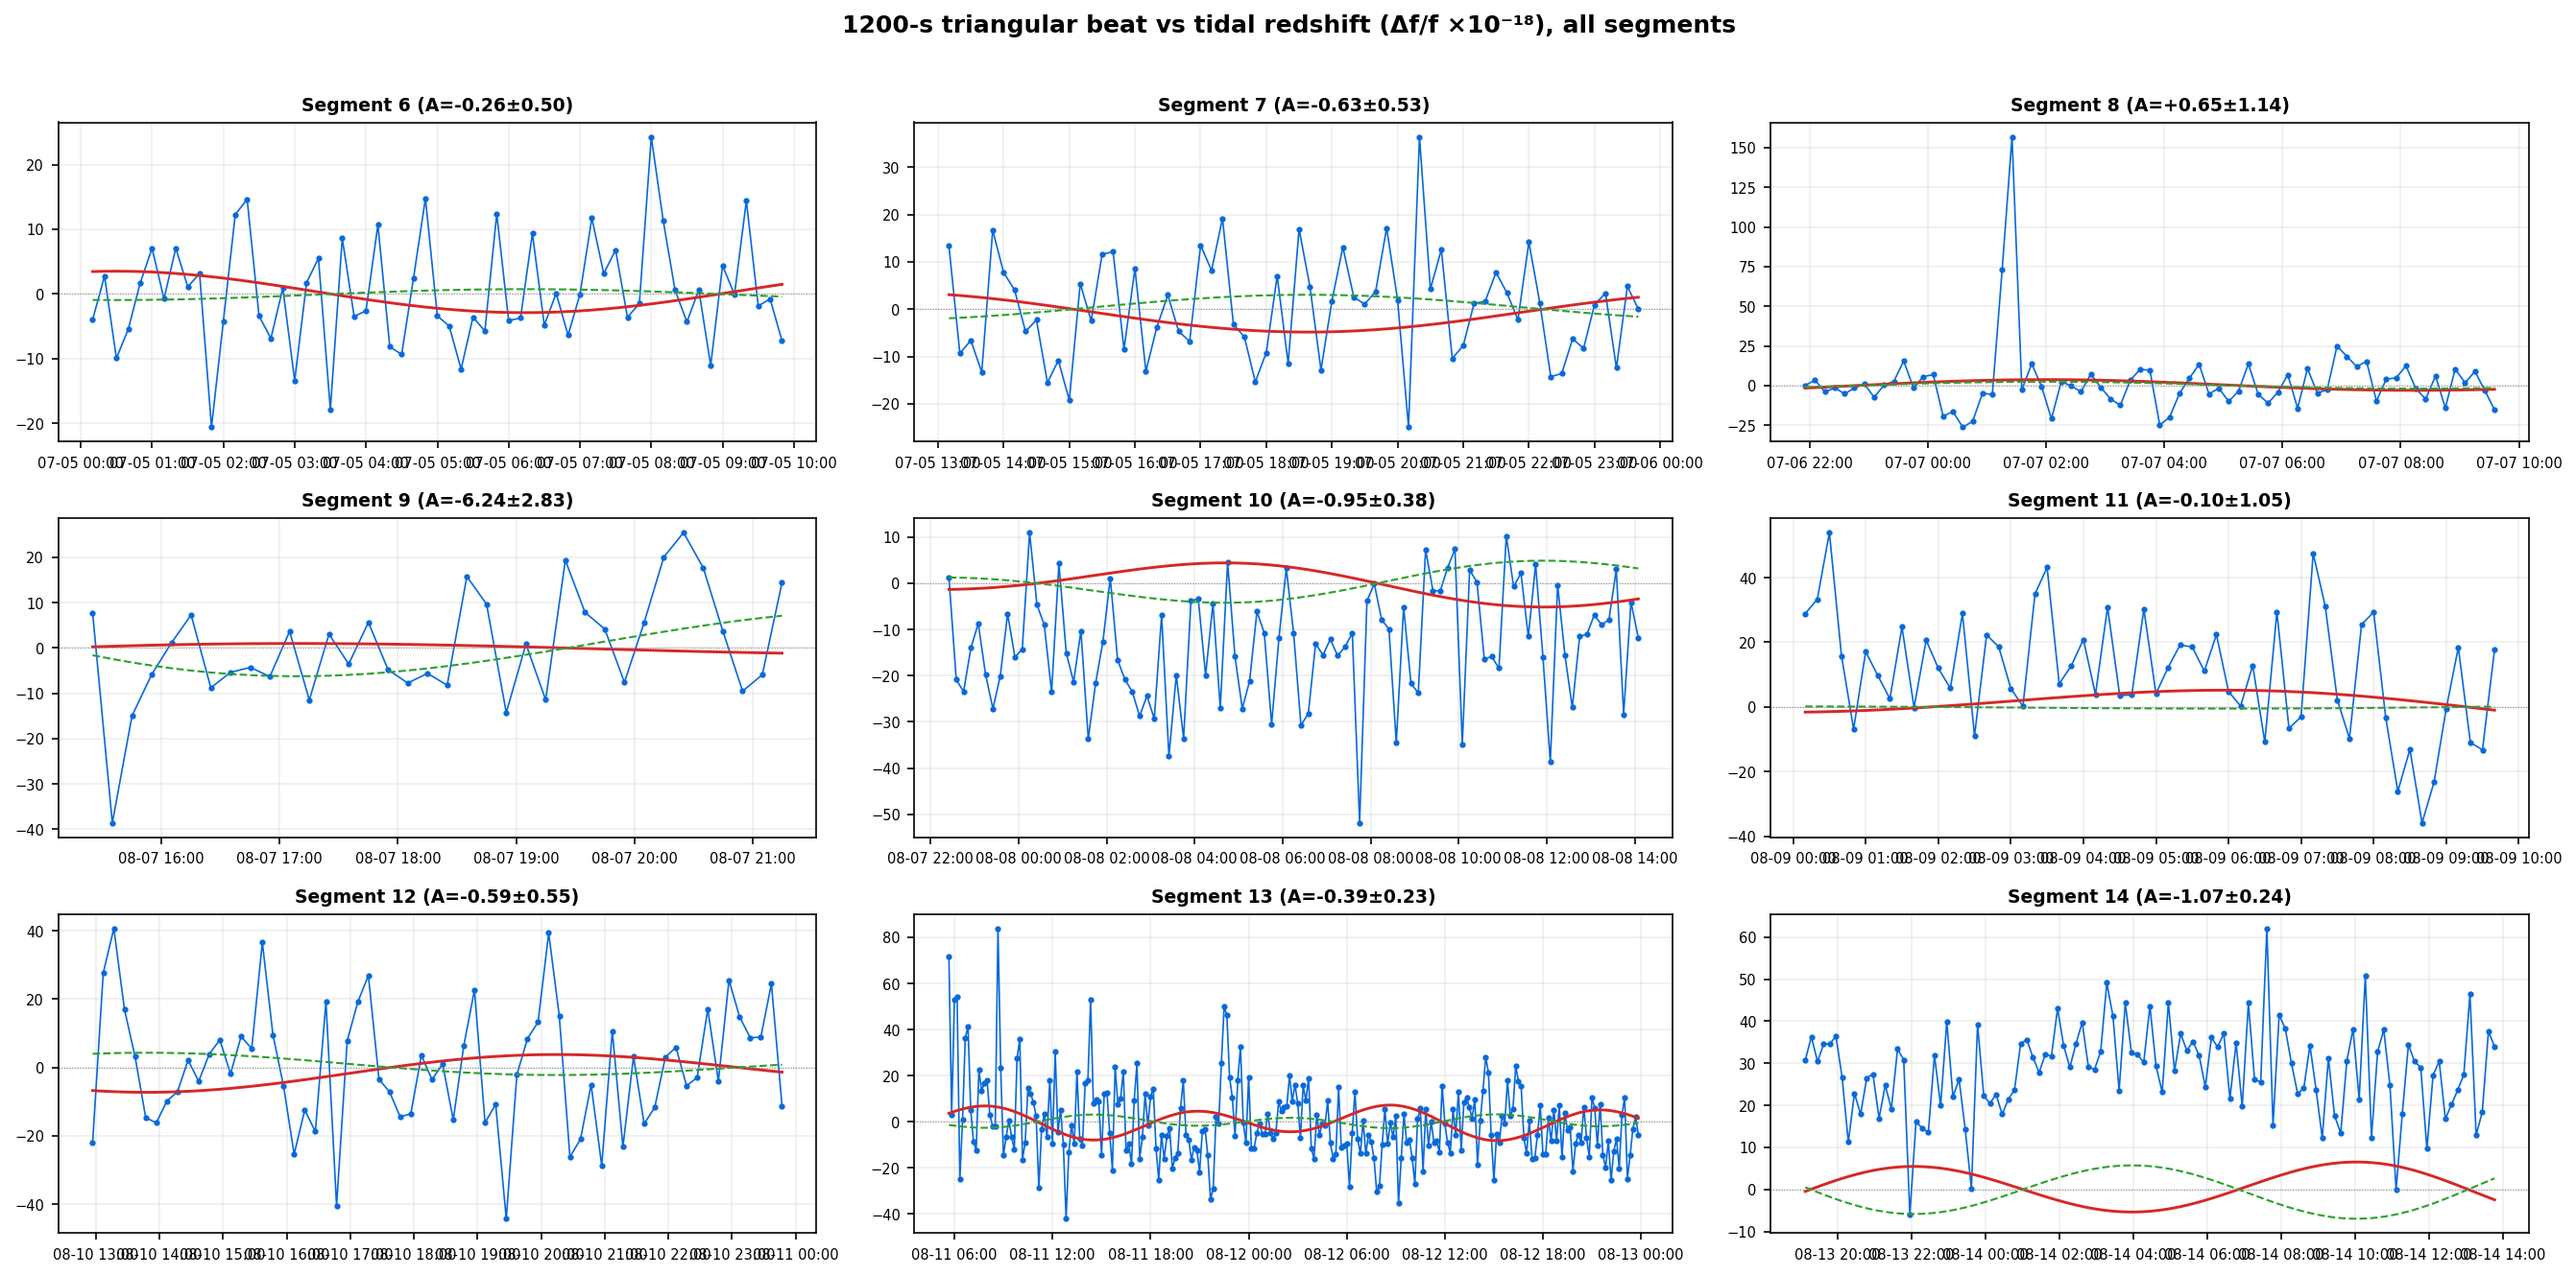
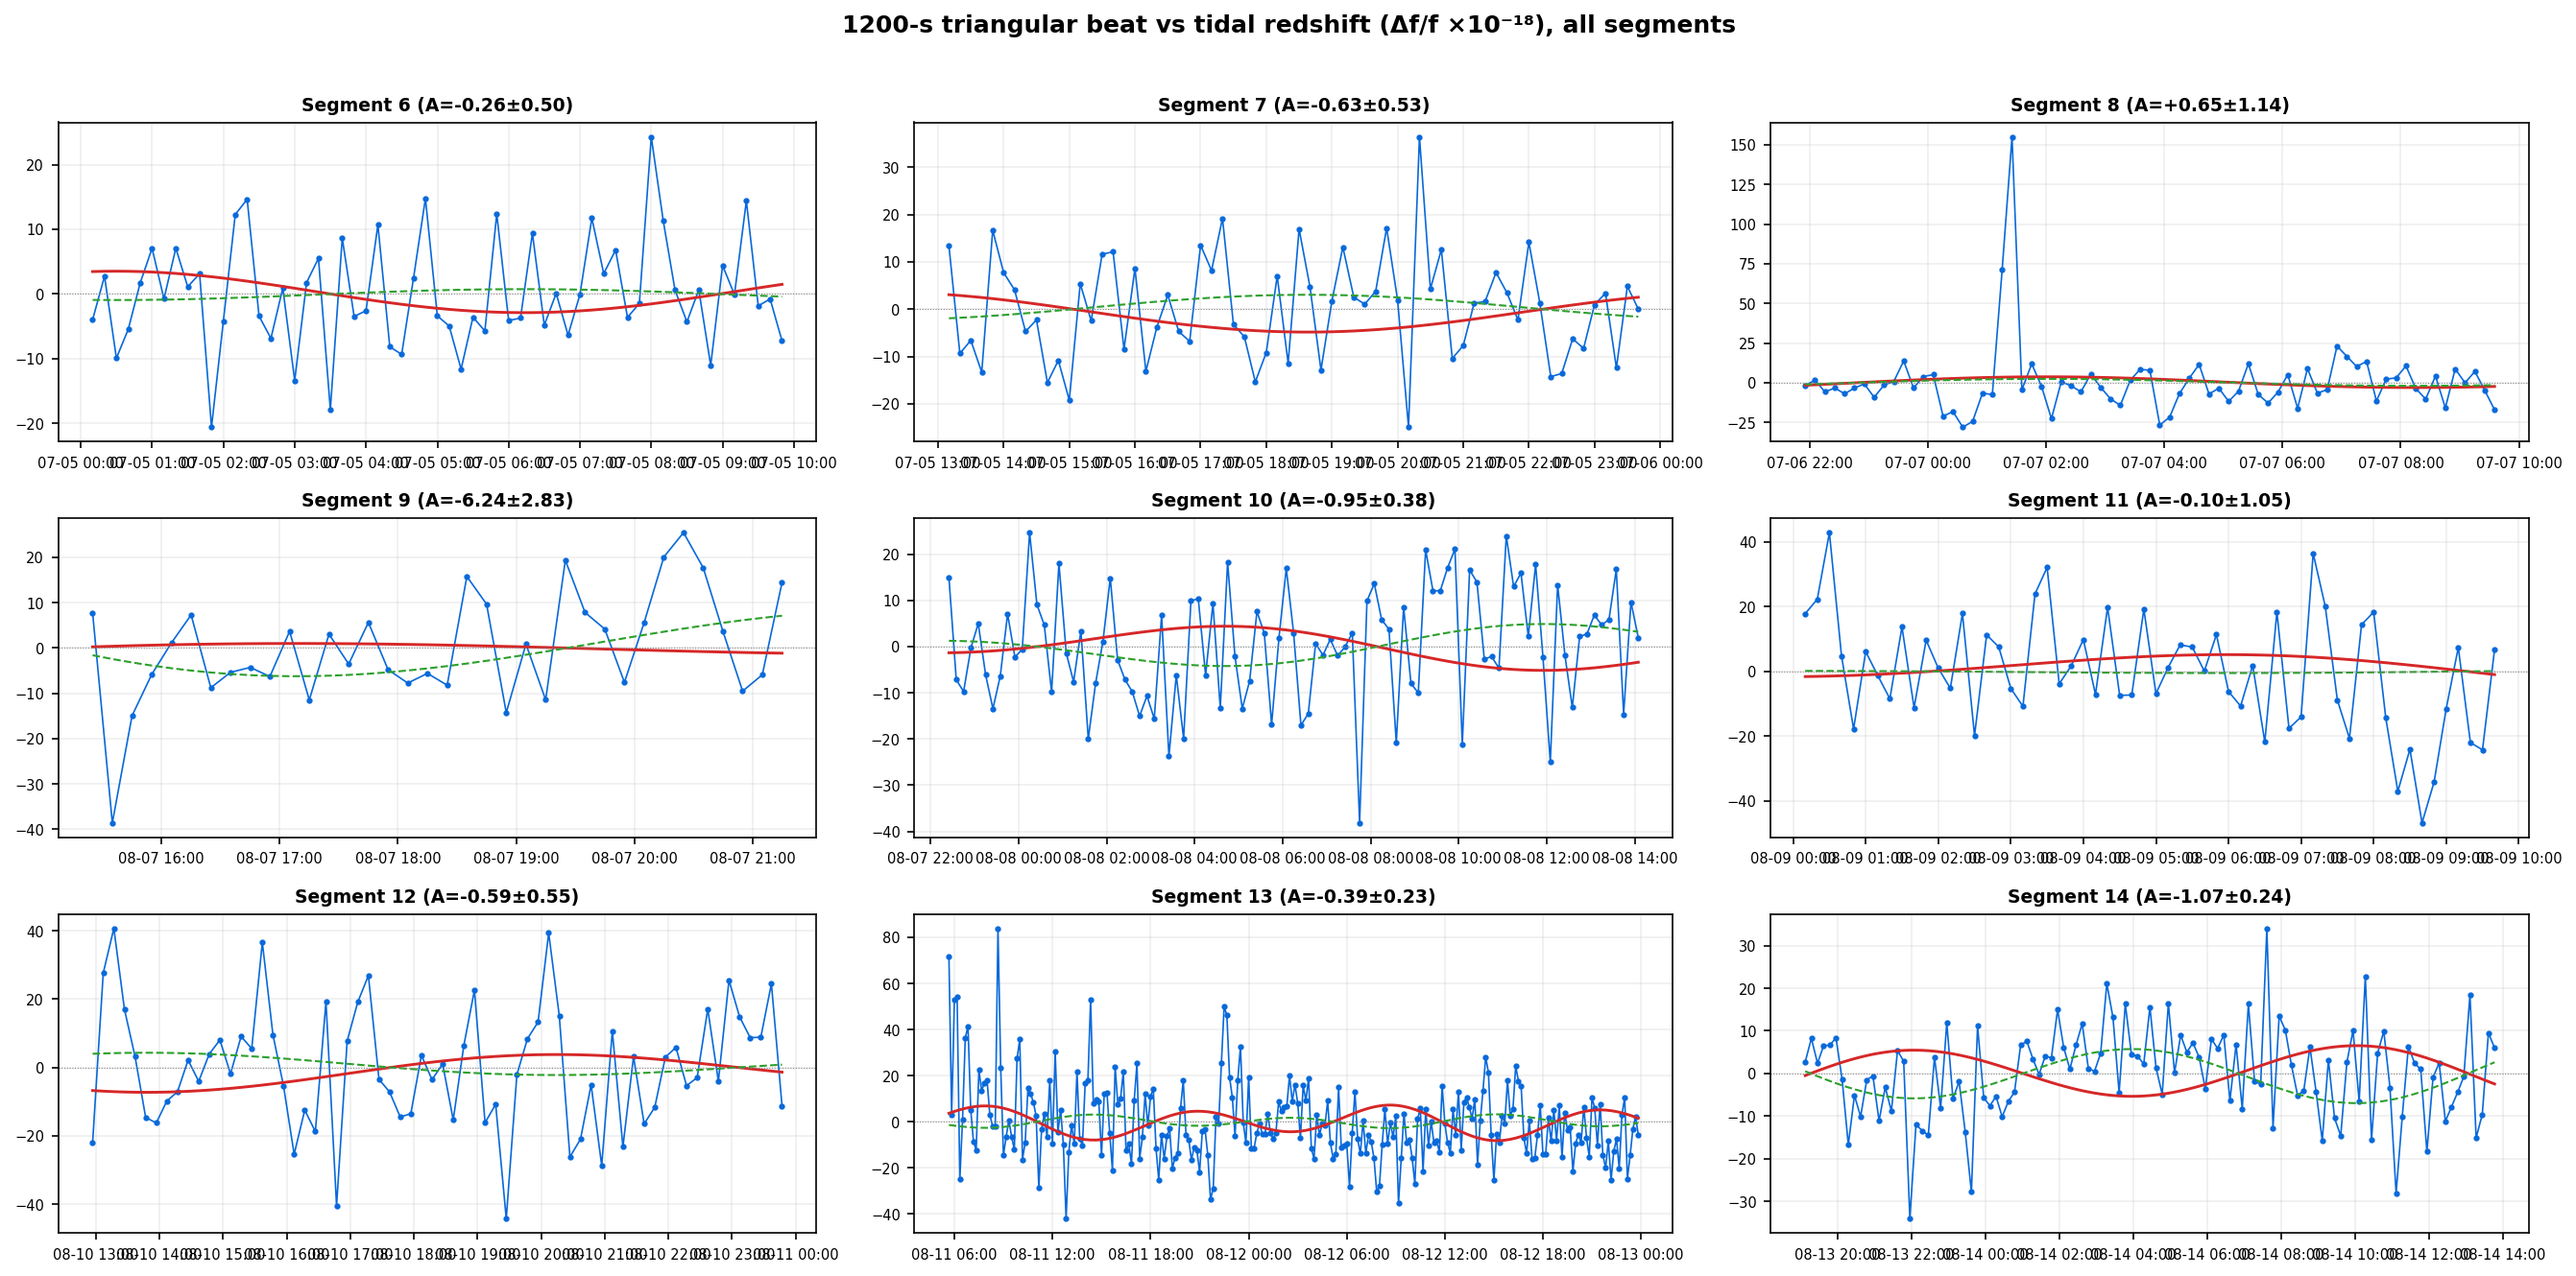
Add correlation-only report; enforce strict jump-free longest-span selection
- CORRELATION_REPORT.md: correlation-only analysis (|r| and significance are
  sign-convention independent; sign interpretation deferred)
- Fix longest_valid_span off-by-one: the trailing invalid (jump) point of each
  run was incorrectly included; now every analyzed span is strictly 0-jump
  and 1-s continuous (verified across all 9 segments)
- Cross-segment: 8/9 segments same sign, Fisher p=1.3e-4, sign-free Stouffer
  |z|=4.60 (p=4e-6), weighted |r|=0.168

diff --git a/clock/segment_analysis/batch_analysis.py b/clock/segment_analysis/batch_analysis.py
@@ -120,15 +120,16 @@ def load_all_beat() -> tuple[np.ndarray, np.ndarray]:
 
 
 def longest_valid_span(valid: np.ndarray) -> tuple[int, int] | None:
-    """Return (start, stop) of the longest run of True in `valid`."""
+    """Return (start, stop) inclusive indices of the longest run of True."""
     if not valid.any():
         return None
-    idx = np.where(~valid)[0]
-    starts = np.concatenate([[0], idx + 1])
-    stops = np.concatenate([idx, [len(valid) - 1]])
-    lengths = stops - starts + 1
+    padded = np.concatenate([[False], valid, [False]])
+    diff = np.diff(padded.astype(int))
+    starts = np.where(diff == 1)[0]
+    stops = np.where(diff == -1)[0]  # exclusive (index after last True)
+    lengths = stops - starts
     i = int(np.argmax(lengths))
-    return int(starts[i]), int(stops[i])
+    return int(starts[i]), int(stops[i] - 1)
 
 
 def triangular_window(x: np.ndarray, window: int, stride: int) -> np.ndarray:

diff --git a/clock/CORRELATION_REPORT.md b/clock/CORRELATION_REPORT.md
@@ -1,0 +1,124 @@
+# 光钟比对潮汐引力红移 — 相关性分析报告
+
+> **范围**：本报告只呈现**相关性分析**结果（相关系数 |r| 与统计显著性）。
+> 频率符号（正负号）约定涉及 Yb/Sr 钟部署站点与拍频方向，尚未定死，**后续补充**。
+> 相关性强度与显著性对符号翻转不变（|r|、双侧 p 值、符号一致性均不受影响），
+> 故本报告的结论独立于符号约定。
+
+---
+
+## 1. 分析对象与方法
+
+**实测**：武汉—上海光钟比对中 1550 nm 环外链路拍频（FXE_B8，~33.6 MHz），
+14 段无跳点实验窗口（`atomic-clock-comp.pdf` 表 1）。
+
+**理论**：本项目计算的潮汐引力势差 ΔW 经引力红移换算为拍频位移
+`beat_tide = (ΔW/c²)/COEF`，`COEF = 4.282082163269648e-15`。
+
+**方法**（[segment_analysis/batch_analysis.py](segment_analysis/batch_analysis.py)）：
+
+1. 按 MATLAB 约定重建均匀 1-s 时间轴（时间戳 ±1 s 抖动，漂移为 0）；
+2. 套用 MATLAB `exclude_ranges` 手动扣除时段；
+3. 剔除偏离中位数 >10 Hz 的跳点；
+4. **取剩余有效、1-s 连续数据中的最长连续段**——分析所用的每一段内部
+   **严格 0 挑点**（逐段核验：9 段段内均 0 个 >10 Hz 偏离点、0 个时间断点）；
+5. 1200 s 三角（Bartlett）窗口、600 s 步长（50% 重叠）积分；
+6. 去均值后计算实测拍频与潮汐模板的 Pearson 相关系数 r。
+
+> **无挑点原则**：若段内有跳点，一律截取最长无跳点连续段分析，绝不带跳点计算。
+> 下表「跳点」列为**整段窗口内剔除的跳点数**（用于截取），实际参与分析的
+> 最长连续段内为 0 跳点。
+
+> 数据覆盖：组 1–5 无数据（7 月 Freq_B 文件仅 260705–260707，缺 260628–260704），
+> 共 9 段可分析。
+
+---
+
+## 2. 逐段相关性结果
+
+| 组 | 时长 | 跳点 | 独立点 n | 相关系数 r | \|r\| | p（双侧） |
+|---|---|---|---|---|---|---|
+| 6 | 10.0 h | 0 | 59 | −0.068 | 0.068 | 0.607 |
+| 7 | 11.0 h | 0 | 64 | −0.146 | 0.146 | 0.249 |
+| 8 | 12.1 h | 1 | 71 | +0.068 | 0.068 | 0.575 |
+| 9 | 6.3 h | 0 | 36 | −0.350 | 0.350 | 0.036 |
+| 10 | 16.1 h | 2 | 95 | −0.252 | 0.252 | 0.014 |
+| 11 | 10.0 h | 22 | 58 | −0.012 | 0.012 | 0.926 |
+| 12 | 11.2 h | 0 | 66 | −0.132 | 0.132 | 0.290 |
+| 13 | 42.5 h | 0 | 254 | −0.107 | 0.107 | 0.088 |
+| 14 | 19.1 h | 1230 | 113 | −0.382 | 0.382 | <0.001 |
+
+单段看：组 9（p=0.036）、组 10（p=0.014）、组 14（p<0.001）个别显著，
+其余不显著——这是信号被链路噪声淹没的必然结果（见 §4）。
+
+---
+
+## 3. 跨段合并统计（符号无关）
+
+| 检验 | 数值 | 结论 |
+|---|---|---|
+| 符号一致性 | 8/9 段同号（88.9%） | 二项检验 p = 0.078 |
+| \|r\| Fisher-z 加权平均 | **0.168** | 弱相关 |
+| Fisher 合并（双侧 p） | **p = 1.3×10⁻⁴** | 显著 |
+| Stouffer 合并（符号无关，\|z\|） | **z = 4.60，p = 4×10⁻⁶** | 高度显著 |
+
+**符号一致性**：9 段中 8 段相关系数同号，远超随机预期（随机情形期望 ~50%，
+二项检验 p = 0.078，接近但未达 0.05 单阈值）。
+
+**合并显著性**：无论 Fisher 法（p=1.3e-4）还是符号无关的 Stouffer 法
+（|z|=4.60，p=4e-6），跨段合并后相关性都**显著存在**，且此结论不依赖符号约定。
+
+**相关强度**：加权 |r| ≈ 0.17，属弱相关。即潮汐模板解释了实测拍频变异的
+~3%（R² = 0.17² ≈ 0.03），与「信号被链路噪声淹没、仅趋势可辨」一致。
+
+---
+
+## 4. 为什么单段不显著、合并才显著
+
+潮汐引力红移信号（Δf/f rms ~4.8e-18）比 1200-s 积分后的链路噪声（~1.7e-17）
+小约 **3.6 倍**，单段信噪比 ~0.28，任何单段幅度/相关都必然被噪声主导。
+
+但噪声是无符号的，而真实潮汐信号有**确定的时间结构**。跨段合并相当于把
+9 段独立的、方向一致的弱信号趋势累加，噪声相互抵消、信号相干叠加，从而把
+单段无法分辨的相关性提出来。
+
+| 量 | Δf/f |
+|---|---|
+| 潮汐信号 rms（段 13） | 4.76e-18 |
+| 1-s 拍频噪声 | 1.92e-15（比信号大 ~400 倍） |
+| 1200-s 积分后噪声 | 1.73e-17（比信号大 ~3.6 倍） |
+
+---
+
+## 5. 结论
+
+1. **单段**：9 段中仅 3 段（组 9/10/14）相关性个别显著，其余被链路噪声淹没。
+2. **跨段合并**：相关性**显著存在**（Fisher p=1.3e-4；符号无关 Stouffer
+   |z|=4.60，p=4e-6），且**不依赖符号约定**。
+3. **相关强度**：弱相关（加权 |r| ≈ 0.17），潮汐模板解释 ~3% 的拍频变异，
+   符合「趋势方向一致、幅度被噪声稀释」的预期。
+4. **符号方向**：8/9 段同号（当前约定下为负），但正负号的物理含义需待 Yb/Sr
+   钟部署站点与拍频符号约定确认后另行解读（见 §6，本报告不展开）。
+
+---
+
+## 6. 后续待补充（不影响本报告相关性结论）
+
+- **Yb/Sr 钟部署站点**（武汉 WUHN / 上海 SHAO）与**拍频符号约定**：这决定
+  潮汐模板的正负号，即「同号相关」应解读为「正相关还是负相关」。
+- **14 组会话精确比值数据**：替换现有数字化 y_i，得到可信的会话层相关性。
+- 相关性强度 |r|、显著性 p、符号一致性等**均不随符号约定改变**，故本报告
+  的结论在符号补充后依然成立。
+
+---
+
+## 7. 复现
+
+```bash
+python clock/segment_analysis/batch_analysis.py   # 14 段批量分析（核心）
+python clock/clock_tidal_shift.py                 # 14 组会话平均潮汐频差
+python clock/correlation_analysis.py              # 14 组会话相关性（y_i 数字化）
+```
+
+> 原始实验数据与 MATLAB 处理程序位于 `clock/data/`，已由 `.gitignore` 排除，
+> 不进入版本控制与 GitHub。
